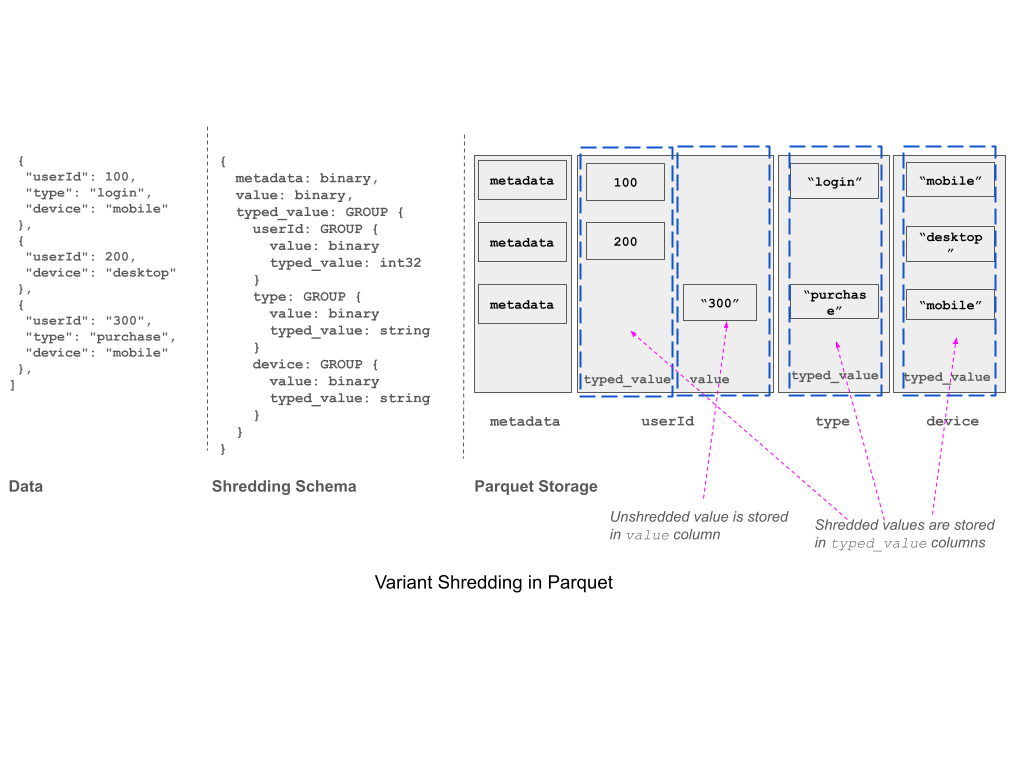
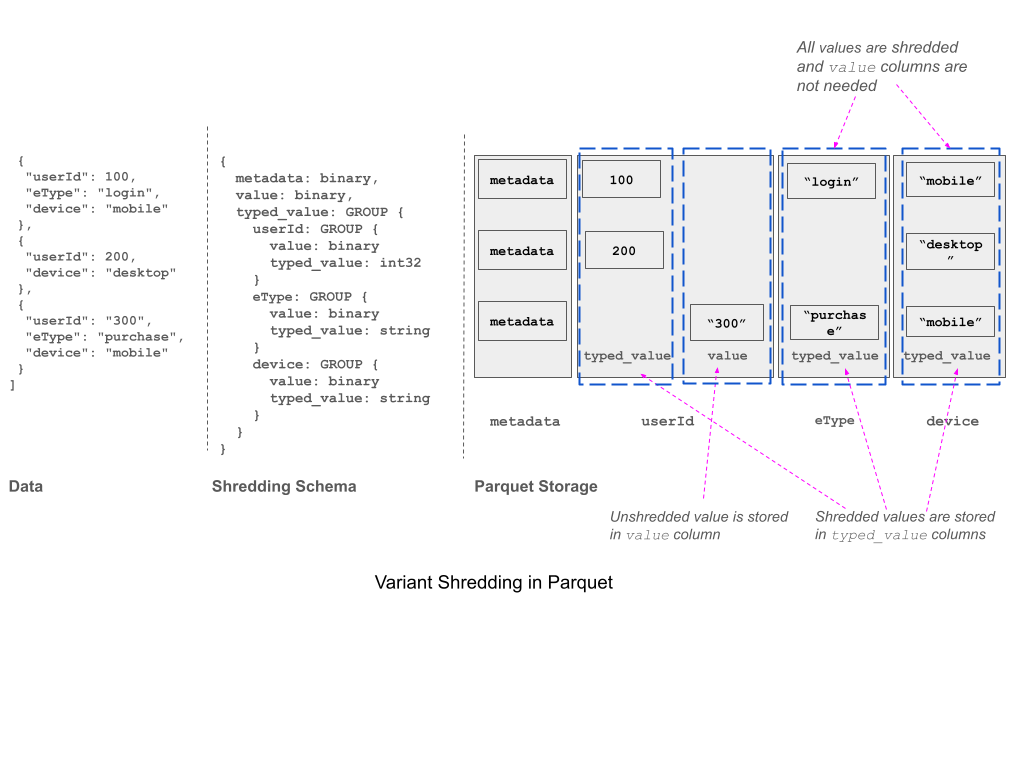
Address comment

diff --git a/content/en/blog/features/variant.md b/content/en/blog/features/variant.md
@@ -62,10 +62,10 @@ A web access event can be stored in a single Variant column while preserving the
 
 ```json
 {
-  "user_id": 12345,
+  "userId": 12345,
   "events": [
-    {"type": "login", "timestamp": "2026-01-15T10:30:00Z"},
-    {"type": "purchase", "timestamp": "2026-01-15T11:45:00Z", "amount": 99.99}
+    {"eType": "login", "timestamp": "2026-01-15T10:30:00Z"},
+    {"eType": "purchase", "timestamp": "2026-01-15T11:45:00Z", "amount": 99.99}
   ]
 }
 ```
@@ -76,7 +76,7 @@ Just as importantly, Variant supports **schema variability**: records with diffe
 
 ```json
 {
-  "user_id": 12345,
+  "userId": 12345,
   "error": "auth_failure" 
 }
 ```
@@ -112,11 +112,7 @@ The query engine decides which fields to shred based on access patterns and work
 
 ### Examples of Shredded Parquet Schemas
 
-If a field's value matches the shredded type, it is stored in the typed column `typed_value`. If a field's value has a different type, it remains in the `value` binary column using standard Variant encoding.
-
-#### Example 1: Shredding to String Type
-
-The Variant values are shredded to string type.
+The following example shows shredding non nested Variants. In this case, the writer chose to shred String values as the `typed_value` column.  Rows which do not contain strings are stored in the `value` column, with the binary variant encoding.
 
 ```parquet
 optional group SIMPLE_DATA (VARIANT(1)) = 1 { 
@@ -126,7 +122,7 @@ optional group SIMPLE_DATA (VARIANT(1)) = 1 {
 }
 ```
 
-**Encoding Table:**
+The series of variant values “Jim”, 100,  {“name”: “Jim”} are encoded as:
 
 | Variant Value | `value` | `typed_value` |
 |---------------|---------|---------------|
@@ -136,20 +132,17 @@ optional group SIMPLE_DATA (VARIANT(1)) = 1 {
 
 ---
 
-#### Example 2: Shredding to Object with Typed Fields
-
-The Variant values are shredded to an object with `user_id` field of integer type and `type` field of string type.
-
+Shredding nested variants is similar, with the shredding applied recursively, as shown in the following example. In this case, the `userId` field is shredded as an integer, and stored as two columns: in `typed_value.userId.typed_value` when the value is integer and as a variant in `typed_value.userId.value` otherwise. Similarly, the `eType` field is shredded as a string and stored in `typed_value.eType.typed_value` and `typed_value.eType.value`.
 ```parquet
 optional group EVENT_DATA (VARIANT(1)) = 1 {
     required binary metadata;           # variant metadata
     optional binary value;              # non-shredded value 	
     optional group typed_value {
-      required group user_id {          # user_id field
+      required group userId {          # userId field
         optional binary value;          # non-shredded value
         optional int32 typed_value;     # the shredded value
       }
-      required group type {             # type field
+      required group eType {             # eType field
         optional binary value;          # non-shredded value
         optional binary typed_value (STRING); # the shredded value
       }
@@ -157,14 +150,14 @@ optional group EVENT_DATA (VARIANT(1)) = 1 {
 }
 ```
 
-**Encoding Table:**
+**The table below illustrates how the data is stored:**
 
-| Variant Value                       | `value`          | `typed_value` | `.user_id.value` | `.user_id.typed_value` | `.type.value` | `.type.typed_value` |
-|-------------------------------------|------------------|---------------|------------------|------------------------|---------------|---------------------|
-| `{"user_id": 100, "type": "login"}` | `null`           |              | `null`           | `100`                  | `null`        | `"login"`           |
-| `100`                               | `100`            | `null`          |         |                   |         |           |
-| `{"user_id": "Jim"}`                | `null`           |              | `"Jim"`          | `null`                 | `null`        | `null`              |
-| `{"user_id": 200, "amount": 99}`    | `{"amount": 99}` |              | `null`           | `200`                  | `null`        | `null`              |
+| Variant                             | `value`          | `typed_value.userId.value` | `typed_value.userId.typed_value` | `typed_value.eType.value` | `typed_value.eType.typed_value` |
+|-------------------------------------|------------------|----------------------------|----------------------------------|---------------------------|---------------------|
+| `{"userId": 100, "eType": "login"}` | `null`           | `null`                     | `100`                            | `null`                    | `"login"`           |
+| `100`                               | `100`            |                            |                                  |                           |         |           |
+| `{"userId": "Jim"}`                 | `null`           | `"Jim"`                    | `null`                           | `null`                    | `null`              |
+| `{"userId": 200, "amount": 99}`     | `{"amount": 99}` | `null`                     | `200`                            | `null`                    | `null`              |
 
 ---
 
